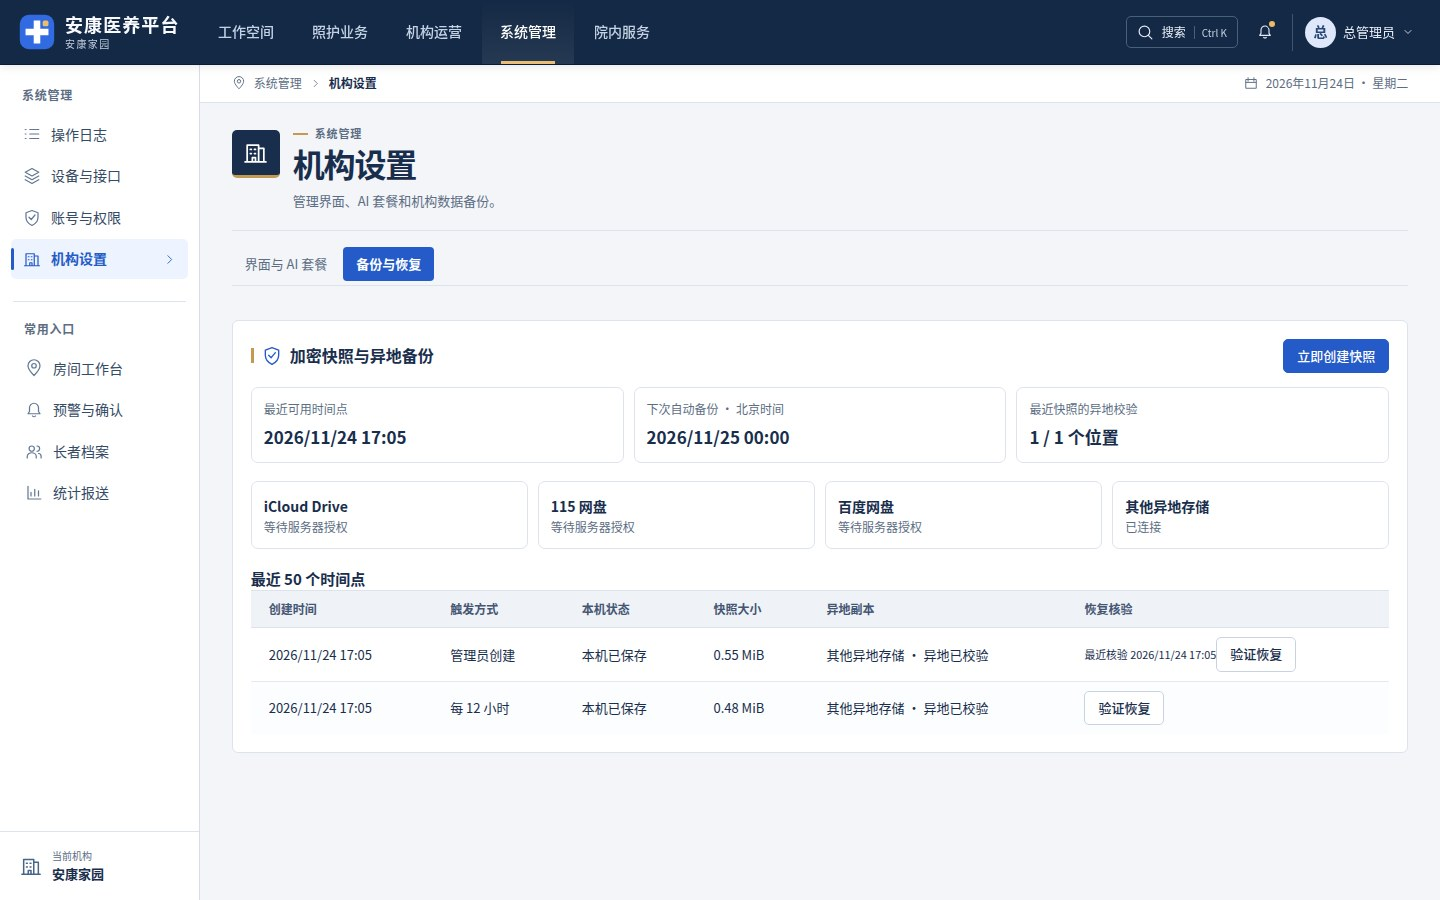
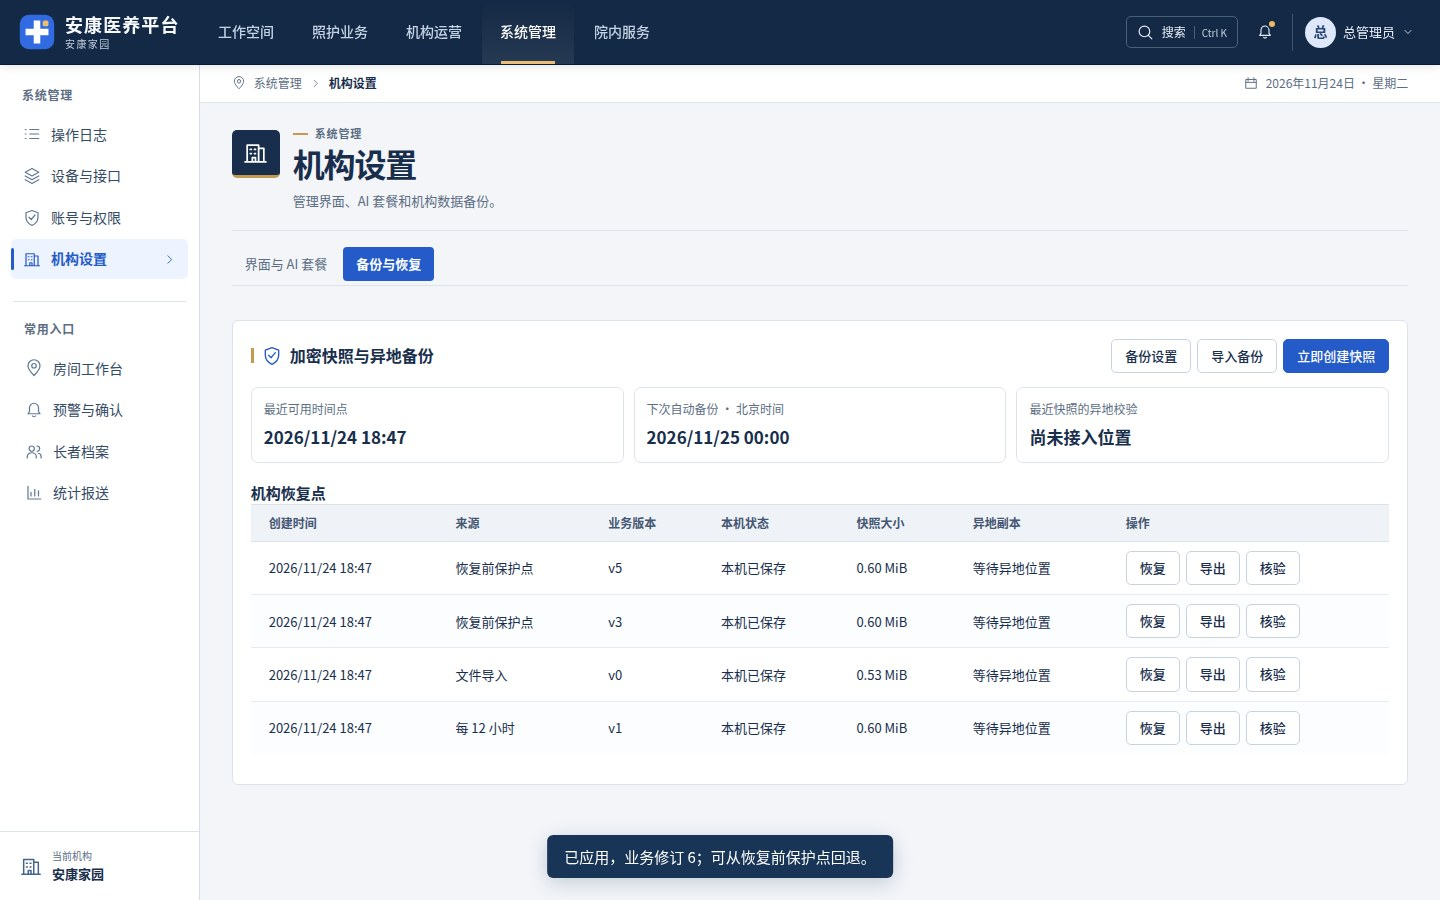
同步确认撤销、备份交换和护理合并的操作手册与桌面实拍

diff --git a/docs/backups.md b/docs/backups.md
@@ -1,12 +1,32 @@
 # 机构完整快照与异地恢复
 
-总管理员在「系统管理 → 机构设置 → 备份与恢复」查看本机恢复点、每个网盘的上传与回读结果。点击「立即创建快照」可在批量导入或交接前留下独立时间点。点击「验证恢复」会在私有临时目录解密、核验数据库页面和业务版本，结束后显示核验时间。生产切换由主机运维人员执行。[桌面验收画面（合成数据）](previews/encrypted-backups.jpg)
+总管理员在「系统管理 → 机构设置 → 备份与恢复」办理加密文件的导入、导出、核验和恢复。恢复点按时间分页，分别标明定时、手工创建、文件导入及恢复前保护点。[电脑端恢复点清单](previews/encrypted-backups.jpg)
+
+## 导出和导入文件
+
+1. 在目标恢复点点击「导出」，确认所选范围后，浏览器下载完整的 `.akbak` 密文。下载授权仅当前总管理员会话可用，3 分钟内限用一次。
+2. 点击「导入备份」并选取本机构文件。服务器分块接收文件，在私有临时目录校验认证标签、加密数据库页、业务库和机构编号。页面展示业务版本、长者、员工、原件数量及差异。导入预览保留 30 分钟。
+3. 选择「导入快照库」并确认，原文件按摘要核对后登记在恢复点清单内。同一密文重复导入复用已存在的有效恢复点。只登记文件时，机构仍在原业务版本上工作。
+
+## 应用与回退
+
+选择恢复点的「恢复」可核对业务差异。点击「应用到当前工作库」后再次确认，服务器验证本人、文件、机构、预览修订及有效期，先保存当前完整加密保护点，再在同一数据库事务内发布新的业务修订。如果核对后另有人提交，需重新打开预览。应用产生独立的变更记录并保存备注，旧记录继续可查。[隔离恢复预览](previews/backup-restore-preview.jpg)
+
+在线恢复覆盖照护及运营工作数据、机构结构、长者及亲属档案。当前有效的账号与授权、套餐用量、设备确认、审计和运行会话由原工作库持续管理。如果旧时间点会撤回已完成的护理、支付回执、用药、签认或原件，页面逐项列出冲突。涉及这类差异时，可将完整加密包恢复到独立目录进行查阅，流程见下方灾备命令。每份可独立恢复的完整包亦含当时的账号与授权。
+
+回退时在「最近改动」打开对应的恢复记录，查看其恢复前保护点；也可在恢复点清单找到「恢复前保护点」。核对差异、确认后发布新的修订，并保留两次操作的审计关系。恢复网页部分使用同一机构的部署密钥；丢失原主机时，可用离线密钥在新的私有目录还原整个机构库。
+
+## 设置与保留策略
+
+「备份设置」包含本机完整快照保留期、导入文件上限和机构异地配送位置。默认长期保留；也可选择 60、90、180、365 天。导入上限支持 64、256、1024、4096 MiB，默认 1024 MiB。反向代理应允许所需的请求大小及超时。超出网页上限的完整包可用下方恢复命令处理。
+
+只有已达到保留期、对应异地位置仍然获准、旧点在最近一天内有完整回读证明且有更新的可恢复点时，才会释放本机副本。异地证明过期时先重新配送和回读。释放后可在对应行「从异地取回」，校验后重新开启本机保留期。停止某位置的配送会保留其已有密文。独立的变更回溯窗口固定为 60 天。
 
 ## 时间与覆盖范围
 
 按北京时间每天 00:00、12:00 创建独立的全量快照。服务首次运行即创建当前时段的恢复点；主机错过一个或多个时段后，在重新上线时保存当时实际存在的数据。页面以实际捕获时间记录版本。每个时间点包含所有分院的账号与授权、员工资料、老人档案、护理及财务数据、识别与审核记录、已归档医疗图片、导入的环境原件和历史附件。时间点包含事务提交完成的版本。需要随时点恢复的环境图片请导入机构媒体库；外部素材网址只保留引用。[原件入库与存储格式](storage.md)
 
-本机目录默认为工作库同目录下的 `workspace.sqlite3.snapshots/`。系统生成的 `.akbak` 是经过认证的密文。每个已连接的目标各有重试队列，收到完整远端文件、重新计算 SHA-256 并核对后才显示「异地已校验」。上传失败会保留本机恢复点，网络恢复后重试；管理员也可点「重试失败的备份」。网盘与本机的容量需要覆盖保留期内的全部完整副本。列表展示最近 50 个时间点，更早的文件仍在存储位置。
+本机目录默认为工作库同目录下的 `workspace.sqlite3.snapshots/`。系统生成的 `.akbak` 是经过认证的密文。每个已连接的目标各有重试队列，收到完整远端文件、重新计算 SHA-256 并核对后才显示「异地已校验」。上传失败会保留本机恢复点，网络恢复后重试；管理员也可点「重试失败的备份」。网盘与本机的容量需要覆盖保留期内的全部完整副本。列表每页展示 50 个时间点，可点「更早的时间点」继续查阅。
 
 ## 常驻定时任务
 
@@ -42,7 +62,7 @@ systemctl --user list-timers 'ankang-backup-*'
 }
 ```
 
-在总管理员的「备份与恢复」点「连接」。后台会对该目标补传已有的可用本机快照。变更登记的远端路径后须在界面重新连接。用「立即创建快照」和「异地已校验」验收实际账户授权、空间和回读能力。每个机构实例独立设置 `NH_BACKUP_LOCATIONS_FILE`、rclone 配置和业务恢复密钥。
+在总管理员的「备份与恢复 → 备份设置」选择对应位置并点「连接」。后台会对该目标补传已有的可用本机快照。变更登记的远端路径后须在界面重新连接。用「立即创建快照」和「异地已校验」验收实际账户授权、空间和回读能力。每个机构实例独立设置 `NH_BACKUP_LOCATIONS_FILE`、rclone 配置和业务恢复密钥。
 
 ## 原部署不可用时恢复
 

diff --git a/docs/history.md b/docs/history.md
@@ -1,0 +1,34 @@
+# 最近改动与撤销
+
+「最近改动」按业务版本展示过去 60 天的成功提交。打开一行可以查看执行时间、经办人、变更说明、受影响记录、字段原值和新值。以房间或长者为入口时，工作台使用稳定的业务编号筛选，同号房的记录各自归属于发生时的院区和房间。护理时间线上的半小时合并属于展示设置，每次工单登记仍保留自己的版本和办理人。
+
+## 确认和核对
+
+1. 在对应业务界面提交，核对确认窗中的对象和改动。可填写最多 240 字的变更说明，例如「家属核实后更正常住地址」。取消时业务数据和历史版本保持原值。
+2. 确认后由业务服务器重新校验账号权限、区域和当前工作版本。业务内容、审计摘要和字段差异在同一个写事务中保存。执行失败会回滚该事务。
+3. 在「最近改动」进入详细记录。普通员工可看本人办理且现岗位仍可访问的记录。获得审计授权的员工可核对本人业务和区域内获准的事项。总管理员可查全机构。若一项改动混合了不同权限的字段，系统也按当前权限隐藏可能引用这些字段的自由说明，并从搜索中排除这些说明。账号密码只记录凭据更换事件。医疗原件和音频以原件标识、字节数或摘要关联，原文件由加密档案保管。
+4. 对可逆的变更，选择「撤销」并确认。系统在写入前重验岗位、分院、原值及后续引用。成功后新增一项补偿提交，原提交记录保留撤销版本。两人同时撤销相同版本时，只有一项能提交。
+
+## 可撤销的范围
+
+| 办理事项 | 回退行为 |
+| --- | --- |
+| 长者档案、护理时间线设置 | 逐字段还原。后来由他人更新的其他字段保留。撤销涉及家庭资料的改动仍须具有亲属资料权限。 |
+| 待执行护理工单、入住接待、物资建档、排班 | 可撤回仍与原提交一致且没有下游引用的新增条目。已产生质检、库存流水或引用凭证时，详情显示原因。 |
+| 日常照护工单完成登记 | 可更正误记的普通执行状态。系统核对类型、现入住床位和后续凭证。涉及医嘱、用药及其他临床处置时，须按相应业务流程办理。 |
+| 已确认的日常护理语音申请 | 更正工单完成状态，原申请进入「已撤销」终态，保留原确认人和确认时间。重新办理须由工作人员发起新操作。 |
+| 界面设置、识别开关、备份保留策略、分院资料及楼栋更名 | 由获授权的管理人员撤回仍符合当前约束的字段。还原备份策略会递增配置版本；已经按此前策略清理的副本须从其他保存位置恢复。 |
+| 医疗原件、已有临床处置、支付和对外签发 | 保留提交和凭证供核对，后续在相应模块登记更正或接收回执。 |
+| 批量导入业务快照 | 管理员可从导入详情定位执行前的保护点，在备份页面预检并执行新的恢复。导入前版本可继续查阅。 |
+
+## 保留及升级
+
+精确字段历史按提交时间滚动保留 60 天。历史记录在业务提交和启动时清理，查询也使用同一时限。原有业务审计、不可变医疗原件、法定业务凭证和手工快照各自遵循对应模块的保留策略。过去生成的加密快照保留创建当时的内容，从中重启业务库时重新应用 60 天时限。升级前的审计只有时间、经办人和摘要，近期仍可查看，无法从这些摘要推算历史字段值。独立的网盘授权、进程锁、登录会话和临时下载票据由各自的部署或安全机制管理。[加密备份与保留设置](backups.md)
+
+## 接口
+
+| 请求 | 用途 |
+| --- | --- |
+| `GET /api/history` | 按版本倒序分页，支持 `residentId`、`roomId`、`actorId`、`before`、`limit`。用 `q` 搜索本人可见的摘要及变更说明，输入 `v123` 精确定位版本。用 `day=YYYY-MM-DD` 筛选北京时间的某一天。 |
+| `GET /api/history/{revision}` | 返回当前账号可看见的变更说明、前后差异、关联目标及撤销条件。 |
+| `POST /api/history/{revision}/undo` | 请求中传入当前工作版本 `revision` 和可选的 `comment`，成功返回新的修订号。 |

diff --git a/docs/care-timeline.md b/docs/care-timeline.md
@@ -1,0 +1,24 @@
+# 照护时间线
+
+「照护业务 → 照护服务 → 照护工单」用于逐人办理待执行任务。「已完成服务」将同类执行记录按时间排列，支持搜索服务项目、长者、执行人或房间。可选某个日期或近 60 天。展开任意一组即可核对每笔工单的编号、长者、执行人、备注、计划时间和床旁核验，再打开工单凭证进行服务抽检。[已完成服务桌面实拍](previews/care-timeline.jpg)
+
+## 长者与房间的设置
+
+| 入口 | 设置范围 |
+| --- | --- |
+| 长者档案 → 选择长者 → 照护时间线 → 显示设置 | 只改变该长者档案内的分组；详细档案也有同一条时间线。 |
+| 房间工作台 → 选择房间 → 房间照护记录 → 显示设置 | 只改变该房间内的分组。房号相同的不同分院和楼栋使用独立的房间编号。 |
+| 照护服务 → 已完成服务 | 同时遵从每笔工单所属长者与房间的设置。任一方选择逐笔展示时，该工单单列；两边都合并时，取较短的窗口。 |
+
+具有照护权限且获准访问相应长者或房间的员工可调整显示设置。默认按 30 分钟合并，可选 10、15、30、60 分钟或逐笔展示。点击「保存显示设置」并确认后，页面回到同一对象。档案和房间的「最近改动」另开对应范围的变更历史，可查看设置的经办人和说明。家属及长者自助端继续依照原有服务授权查阅。
+
+## 如何判断一组记录
+
+1. 直接登记、床头卡核验和语音申请人工确认后，服务端同时登记实际提交完成的时刻、执行账号和当时的床位、房间。即时记录按上海时区展示；旧凭证只有日期时会显示「时刻未登记」，计划时间仍可在明细中核对。没有可核验床位的历史工单保留在授权的长者或机构工单视图中。
+2. 新建工单时，在「完成后时间线归类」可选择饮水照护、用餐陪护、按标准服务名称或单独展示。标准名称包括「递水」「协助饮水」「午餐陪护」等。实际备注中出现呛咳、拒绝、跌倒等需关注情形时，工单单列。医嘱执行、巡视及未归类的其他项目逐笔展示。
+3. 只合并同一天、同一执行房间、同类日常服务、有精确时刻和执行账号的工单。窗口从这一组的第一笔开始。例如 09:00、09:12、09:24 的递水记录可合并为 09:00–09:24；09:35 另起一组。摘要展示参与的员工和长者；每位员工为哪位长者提供了哪项服务可由逐笔明细核实。
+4. 转床后，既有凭证仍指向执行当时的房间。分院或限定房间的员工只能看到同时满足当前长者授权、历史执行位置授权的记录。不同长者、房间显示方式的变更不影响原始工单、审计及业务统计。
+
+## 接口
+
+`GET /api/care-timeline/work`、`GET /api/care-timeline/resident/{id}` 和 `GET /api/care-timeline/room/{id}` 共用 `day`、`q`、`offset`、`revision` 筛选。翻页传入首屏返回的版本，如其间有人提交新业务，重新读取第一页。修改通过带版本与操作说明的 `care.timelineSettings` 命令提交。

diff --git a/docs/roadmap.md b/docs/roadmap.md
@@ -13,6 +13,14 @@
 
 每个增量先固定验收场景，再实现、测试、提交并同步项目分支。涉及机构实际布局的内容由院方提供平面图和现场素材后核对。
 
+## 可回溯工作台的交付与验收
+
+| 迭代 | 电脑端验收 | 数据核验 |
+| --- | --- | --- |
+| 提交与撤销 | 在接待登记里填写长者资料，返回修改，再附说明确认；从回执打开「最近改动」并撤销。 | 取消时没有业务写入，执行和撤销各增加一个版本。用另一会话修改同一字段，旧版本不能覆盖后来内容。 |
+| 护理时间线 | 两位员工在同一房间半小时内登记同类饮水服务，再分别查看房间、单个长者及工单原件。 | 组内列出参与人员与起止时刻。切换长者或房间的合并设置后，原始工单及次数不变。 |
+| 备份交换 | 导出一个加密包，导入预览并收藏；检查差异后选择在线应用，再从恢复前保护点核对回退内容。 | 原件认证、当前版本复核、独立保护点、保留的授权和不可逆凭证，以及导入与回退修订号都可核对。 |
+
 ## 当前迭代与验收入口
 
 ### 分院、识别及恢复的交付追踪
